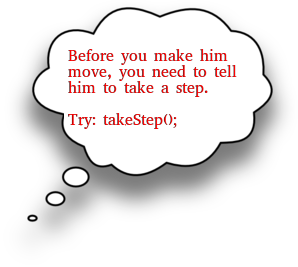
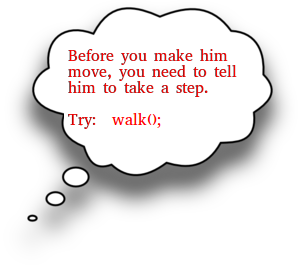
everything works

Changed region(s): [[0.3322, 0.4195, 0.604, 0.4794]]

diff --git a/console/console.js b/console/console.js
@@ -1,6 +1,6 @@
 var currentStage = 1;
 function myMove() {
-  var elem = document.getElementById("knightstage1");
+  var elem = document.getElementById("knightstage"+currentStage);
   var pos = 0;
   var id = setInterval(frame, 5);
   function frame() {
@@ -56,7 +56,7 @@ function checkStage(i)
       var ans="Hello!";
 
 
-      if (inp=="System.out.println(\"" + ans + "\");")
+      if (inp=="System.out.print(\"" + ans + "\");")
       {
         document.getElementById("bubble").classList.add("speech");
         document.getElementById("bubble").innerHTML = ans;
@@ -85,13 +85,12 @@ function checkStage(i)
         break;
         case 3:
           var inp=document.getElementById("consolein").value;
-          if (inp=="takeStep();")
+          if (inp=="walk();")
           {
-<<<<<<< HEAD
-            myMove();
-=======
-            takeStep();
->>>>>>> 38bfe6ff3aeba1ea7a69273007fa3a2cbfab30aa
+
+
+            walk();
+
           }
           else
           {
@@ -103,7 +102,7 @@ function checkStage(i)
             if (inp=="boolean isObstacle = true;")
             {
 
-               jumpObstacle();
+               jumpObstacle(currentStage);
 
             }
             else
@@ -116,7 +115,9 @@ function checkStage(i)
                 if (inp=="javac SlayDragon.java && java SlayDragon")
               {
 
-                 jumpObstacle();
+                 jumpObstacle(currentStage);
+                 hit();
+
 
 
               }
@@ -138,7 +139,7 @@ function checkEnter() {
   }
 }
 
-function takeStep() {
+function walk() {
   var elem = document.getElementById("knightstage3");
   var pos = 300;
   var id = setInterval(frame, 5);
@@ -152,8 +153,27 @@ function takeStep() {
   }
 }
 
-function jumpObstacle() {
-  var elem = document.getElementById("knightstage4");
+function hit()
+  {
+    var hits = 0;
+    var elem = document.getElementById("hit");
+    var id = setInterval(frame,1200);
+      function frame(){
+        if(hits == 6)
+        {
+          clearInterval(id);
+          selectStage(6);
+        }
+        else {
+          hits++;
+
+        }
+      }
+
+  }
+
+function jumpObstacle(currentStage) {
+  var elem = document.getElementById("knightstage" + currentStage);
   var pos = 300;
   var id = setInterval(frame, 5);
   function frame() {

diff --git a/console/console.html b/console/console.html
@@ -37,7 +37,7 @@
 
 <div class="stage5">
   <img class="tip" src="../level5/level5.png" />
-  <p> <h1> BOSS BATTLE </h1></p>
+  <p> <h1> BOSS BATTLE </h1></p><div id="hit"></div>
   <img id="knightstage5" src="../images/LittleKnight/png/Idle (10).png"/>
   <img id="dragon" src="../level5/dragon.gif"/>
 </div>
@@ -70,7 +70,7 @@
 <span class="container2">
   <span class="stage1"> Print "Hello!": </span>
   <span class="stage2"> Create a variable with your name: </span>
-  <span class="stage3"> Call the method "takeStep": </span>
+  <span class="stage3"> Call the method "walk": </span>
   <span class="stage4"> Is there an obstacle? </span>
   <span class="stage5"> Only use one line of code: </span>
   <span class="stage6">  </span>

diff --git a/console/console.css b/console/console.css
@@ -83,6 +83,7 @@ img#dragon
 img#knightstage1
 {
   width: 150px;
+  height: 180px;
   position: absolute;
   top: 400px;
 
